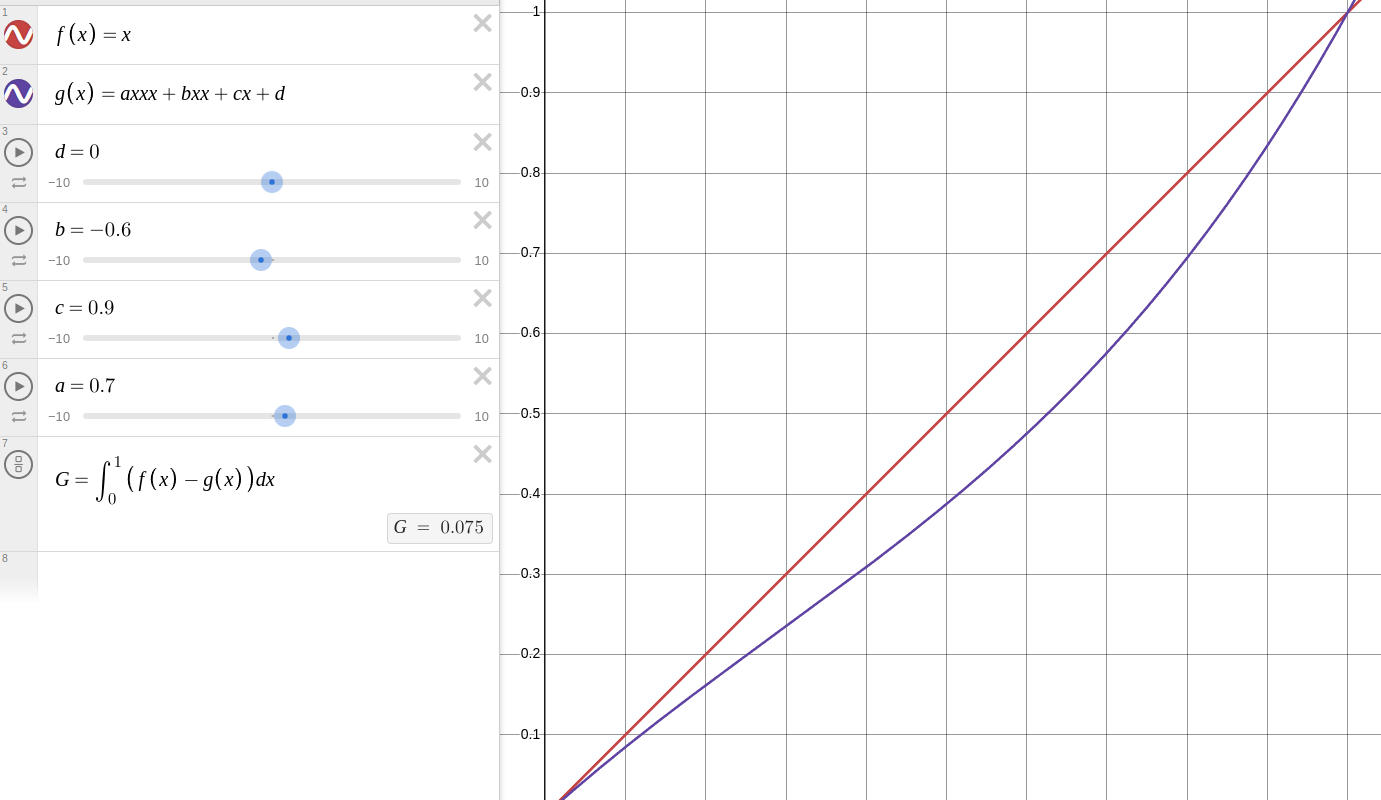
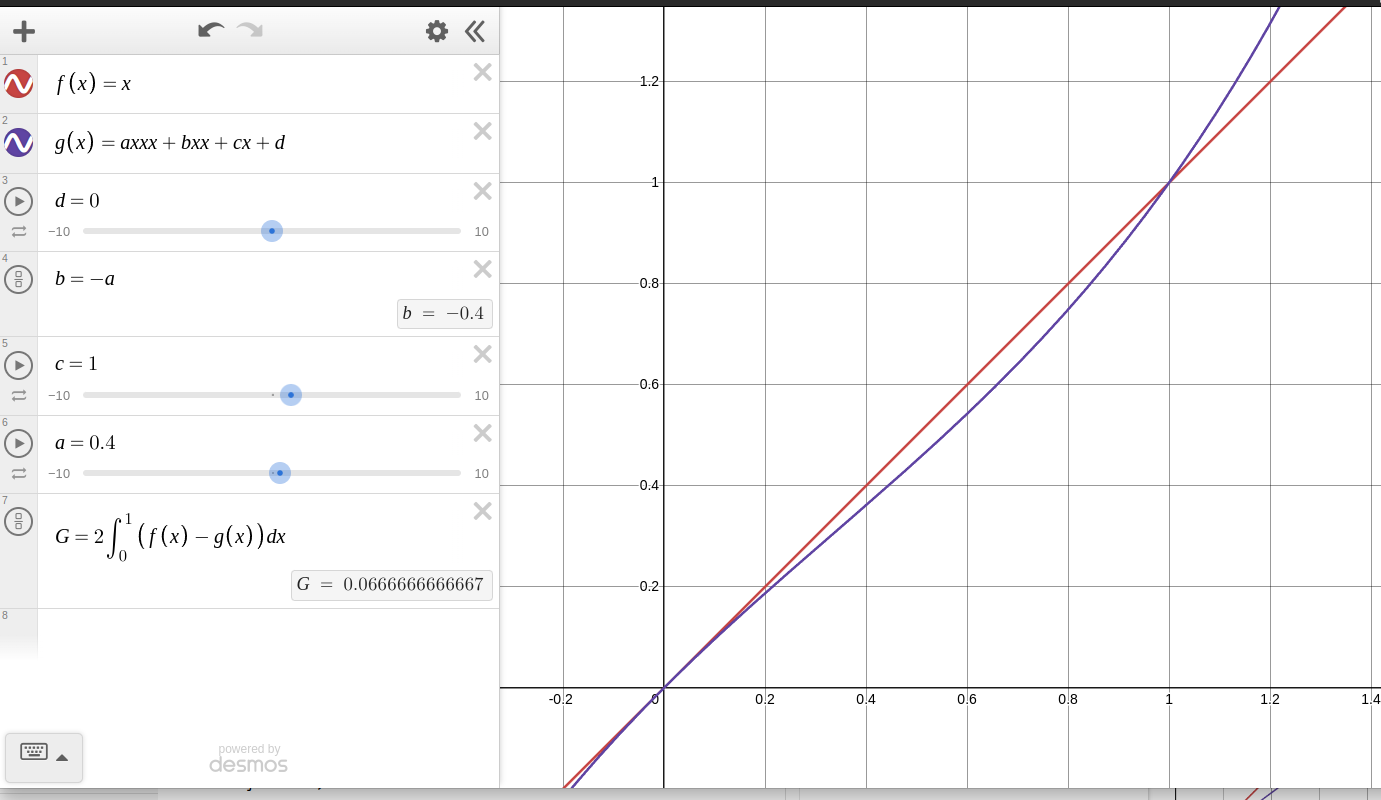
arreglando indice de Gini

diff --git a/docs/estadistica.md b/docs/estadistica.md
@@ -2,10 +2,10 @@
 
 En el proyecto proponemos un sistema de asistencia electrónico, lo que presenta las siguientes ventajas:
 
-* Conteo exacto de asistencias
-* Horario de entrada y salida exactos de los alumnos
-* Información de tardanzas
-* Entre otros
+* Conteo exacto de asistencias.
+* Horario de entrada y salida exactos de los alumnos.
+* Información de tardanzas.
+* Entre otros.
 
 Aprovechamos esto haciendo un recuento de estadísticas para visualizar más fácilmente la información tomada por el sensor.
 
@@ -145,6 +145,15 @@ $$
 
 si evaluamos la suma con $n = \{ 1, 2, 3, ..., n \}$ nos dará una lista $S$ de números corespondiente a la suma acumulada hasta el alumno $n$ de los valores de $I_n$
 
+| Alumno     | Índice de puntualidad   |
+|------------|-------------------------|
+| 1          | $I_1$                   |
+| 2          | $I_2$                   |
+| ...        | ...                     |
+| $k$        | $I_k$                   |
+
+Donde $I$ es el Índice de puntualidad y $A$ es el alumno $n$, evaluando la suma:
+
 $$
 S_1 = \sum_{k = 1}^{1}{I_k}
 $$
@@ -165,7 +174,7 @@ $$
 S_n = \sum_{k = 1}^{n}{I_k}
 $$
 
-luego dividimos la lista obtenida por el valor más alto de $I_n$. Si graficamos los puntos $( n, \frac{S}{S_n} )$  formarán la curva de Lorenz.
+luego dividimos la lista obtenida por el valor más alto de $I_n$. Si graficamos los puntos $( \frac{k}{n}, \frac{S}{S_n} )$ para cada alumno $k$  formarán la curva de Lorenz.
 
 ![image 3](./images/3.png) 
 
@@ -177,7 +186,7 @@ Luego vamos a aproximar estos puntos, modelando una función cúbica.
 
 Una curva perfectamente distribuida, es decir, cada alumno entra al mismo horario, se representaría con $f(x)=x$, o sea, una recta con pendiente $1$. Si revisamos la definición anteriormente dada, esto es cierto, ya que si tenemos una lista $l = \{1,1,1,1 ..., 1\}$, el resultado sería $r=\{ 1/n, 2/n, 3/n, ..., n/n \}$. Es decir, una función lineal entre 0 y 1.
 
-La curva de Lorenz nos da información sobre la distribución de una variable. En este caso analizamos la diferencia del tiempo de llegada de los alumnos. La curva nos expresa el porcentaje de alumnos que llega a un porcentaje de esa diferencia de tiempo mencionada. Para explicarlo mejor, tenemos que la media de alumnos (50%) representada en $g(0.5)=0.147906270632$, esto quiere decir que el $50\%$ de los alumnos llega a un $14.7\%$ de la diferencia de horario más alta de la tabla (30 min.). En otras palabras, la media de los alumnos llega con $\approx4.437$ minutos de diferencia con respecto al horario máximo.
+La curva de Lorenz es la representación gráfica de la distribución de una variable de interés, como puede ser la renta o los ingresos, en una población, o en nuestro caso, la diferencia del horario de llegada de los alumnos y el horario de llegada estipulado. En este caso analizamos la diferencia del tiempo de llegada de los alumnos. La curva nos expresa el porcentaje de alumnos que llega a un porcentaje de esa diferencia de tiempo mencionada. Para explicarlo mejor, tenemos que la media de alumnos (50%) representada en $g(0.5)=0.147906270632$, esto quiere decir que el $50\%$ de los alumnos llega a un $14.7\%$ de la diferencia de horario más alta de la tabla (30 min.). En otras palabras, la media de los alumnos llega con $\approx4.437$ minutos de diferencia con respecto al horario máximo.
 
 Podemos calcular la "desigualdad" existente entre los datos computados y una distribución perfecta, a continuación se explica cómo y qué significa.
 
@@ -197,7 +206,7 @@ En esta imagen comparan los ingresos de una población, sin embargo vamos a inve
 
 Continuando con lo anteriormente dicho, el índice de Gini nos sirve para medir la desigualdad, éste índice tiene un rango entre $0\leq x \leq 1/2$ ya que puede ser a lo más el área de un triángulo rectangulo cuyos catetos son 1 y su hipotenusa es $\sqrt{2}$, o cero.
 
-Para calcular el índice de Gini hayamos el área entre $f(x)=x$ y $g(x)$ a través de una integral definida entre $0 < x < 1$.
+Para calcular el índice de Gini hallamos el área entre $f(x)=x$ y $g(x)$ a través de una integral definida entre $0 < x < 1$.
 
 $$
 \int_{0}^{1}\left(f\left(x\right)-g\left(x\right)\right)dx
@@ -214,12 +223,12 @@ g\left(x\right)=ax^{3}+bx^{2}+cx+d
 $$
 
 $$
-G=\int_{0}^{1}\left(x-g\left(x\right)\right)dx \approx 0.238886846345
+G=2\cdot\int_{0}^{1}\left[x-g\left(x\right)\right]dx \approx 0.477773693
 $$
 
-Entonces, el índice de Gini es aproximadamente $0.238886846345$.
+Entonces, el índice de Gini es aproximadamente $0.477773693$.
 
-La interpretación de éste resultado nos puede dar una pista. Como se menciona, no nos detalla en absoluto si los alumnos son puntuales, pero vamos a suponer que una escuela tiene una diferencia en el horario de llegada, en promedio, de 5 minutos de anticipacion. Ahora, en base a este dato, podemos calcular el índice de Gini, por ejemplo,  $G = 0.07$. En este caso se puede decir que la escuela es puntual ya que en promedio los alumnos llegan temprano, y además la distribución de sus horarios de llegada es bastante uniforme (una curva casi recta).
+La interpretación de éste resultado nos puede dar una pista. Como se menciona, no nos detalla en absoluto si los alumnos son puntuales, pero vamos a suponer que una escuela tiene una diferencia en el horario de llegada, en promedio, de 5 minutos de anticipacion. Ahora, en base a este dato, podemos calcular el índice de Gini, por ejemplo,  $G \approx 0.07$. En este caso se puede decir que la escuela es puntual ya que en promedio los alumnos llegan temprano, y además la distribución de sus horarios de llegada es bastante uniforme (una curva casi recta).
 
 ![image 7](./images/7.png) 
-(Se aproximó el valor,  para $G=0.07$ habría menos diferencia)
+(Se aproximó el valor por debajo).
